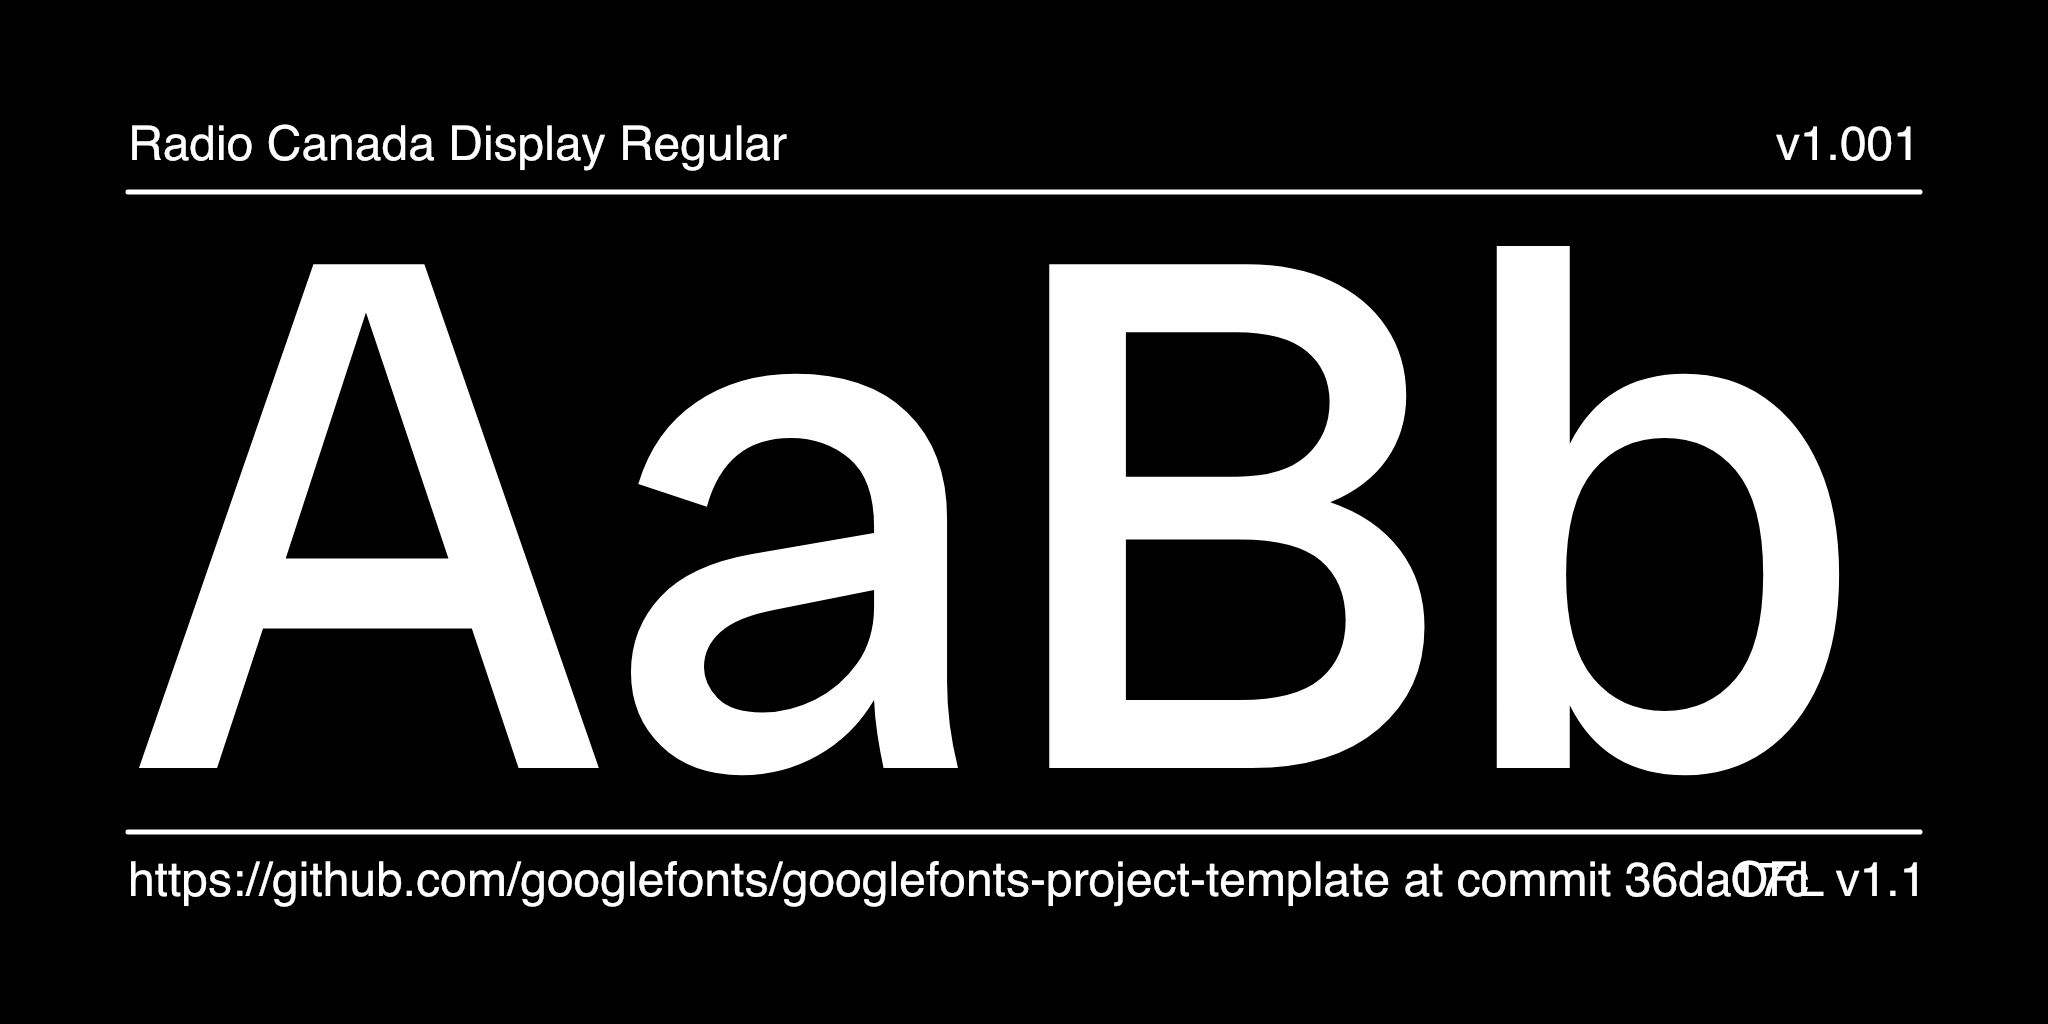
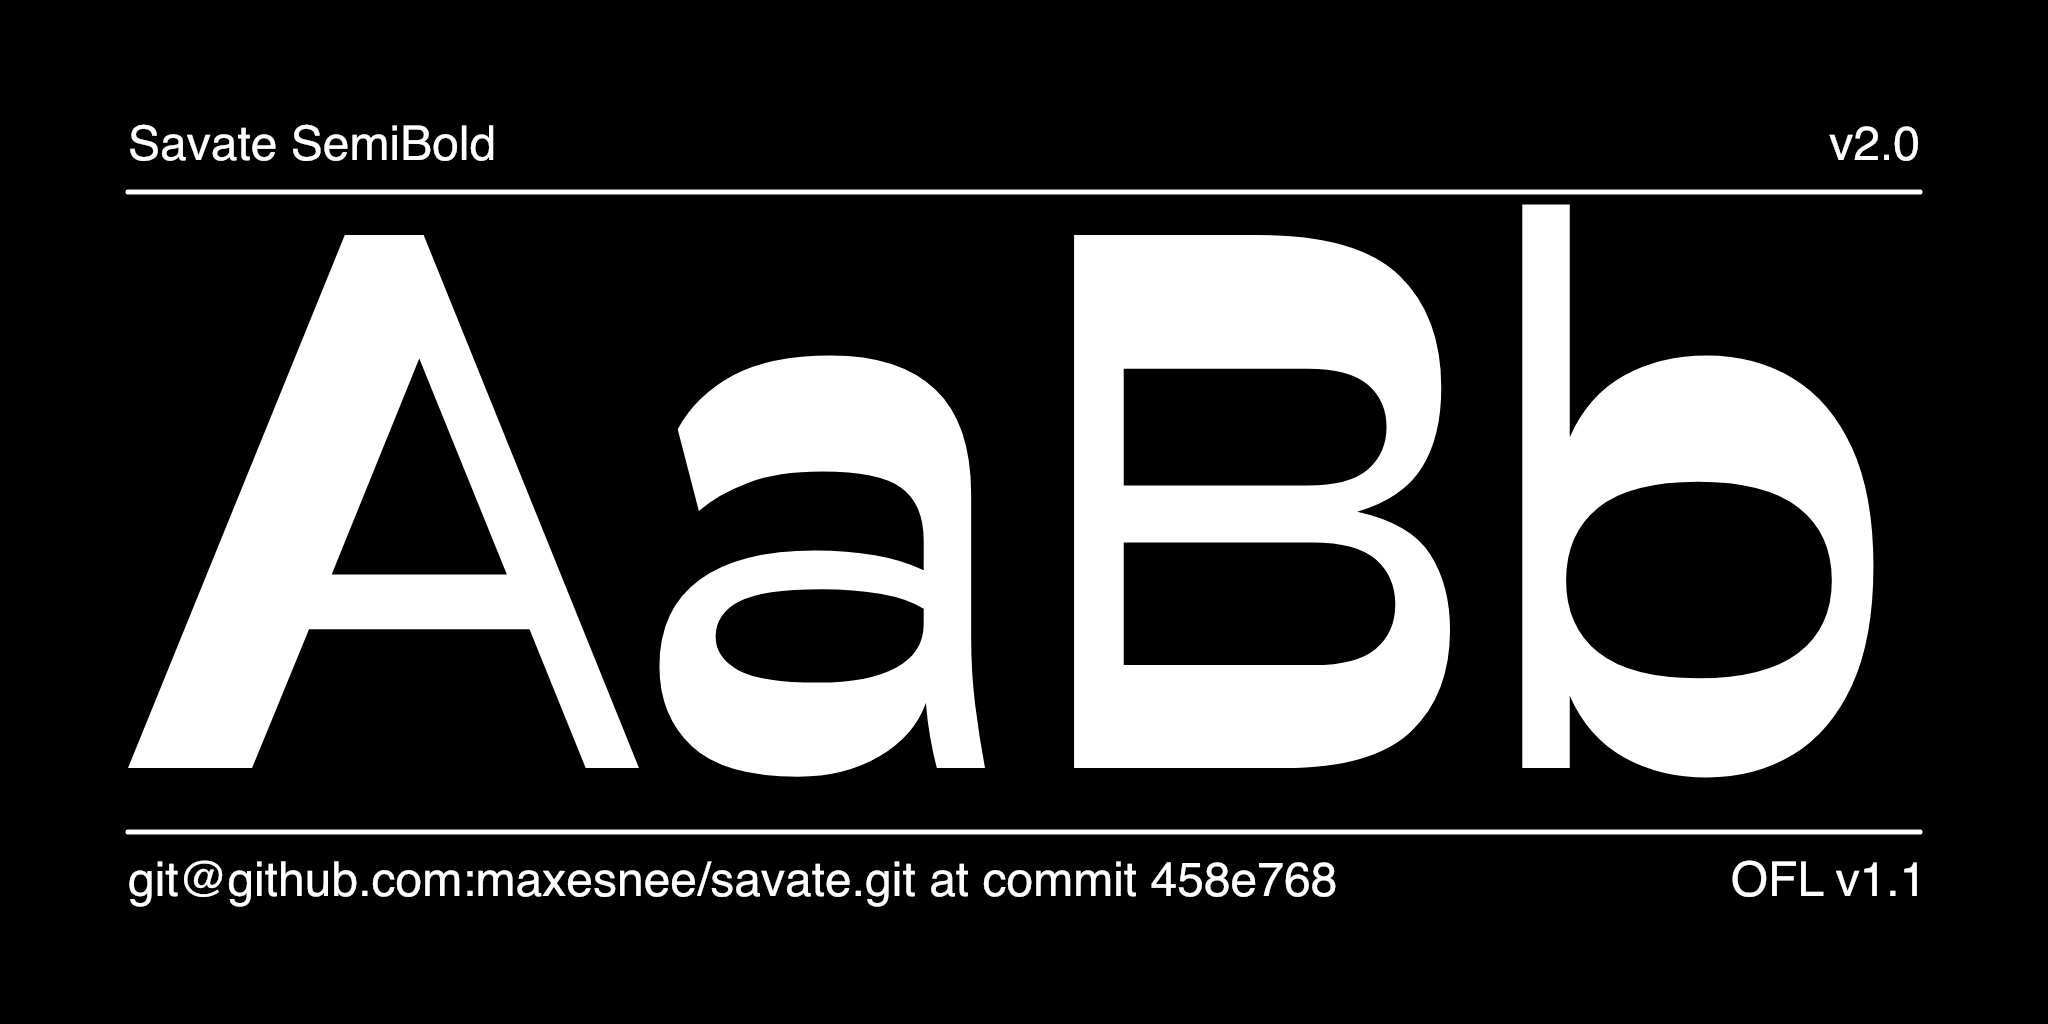
Generate documentation image

diff --git a/documentation/image1.py b/documentation/image1.py
@@ -16,7 +16,7 @@ import argparse
 
 # Constants, these are the main "settings" for the image
 WIDTH, HEIGHT, MARGIN, FRAMES = 2048, 1024, 128, 1
-FONT_PATH = "fonts/ttf/RadioCanadaDisplay-Regular.ttf"
+FONT_PATH = "fonts/ttf/Savate-SemiBold.ttf"
 FONT_LICENSE = "OFL v1.1"
 AUXILIARY_FONT = "Helvetica"
 AUXILIARY_FONT_SIZE = 48

diff --git a/documentation/image2.py b/documentation/image2.py
@@ -16,7 +16,7 @@ import argparse
 
 # Constants, these are the main "settings" for the image
 WIDTH, HEIGHT, MARGIN, FRAMES = 2048, 1024, 128, 1
-FONT_PATH = "fonts/ttf/RadioCanadaDisplay-Regular.ttf"
+FONT_PATH = "fonts/ttf/Savate-SemiBold.ttf"
 FONT_LICENSE = "OFL v1.1"
 AUXILIARY_FONT = "Helvetica"
 AUXILIARY_FONT_SIZE = 48
